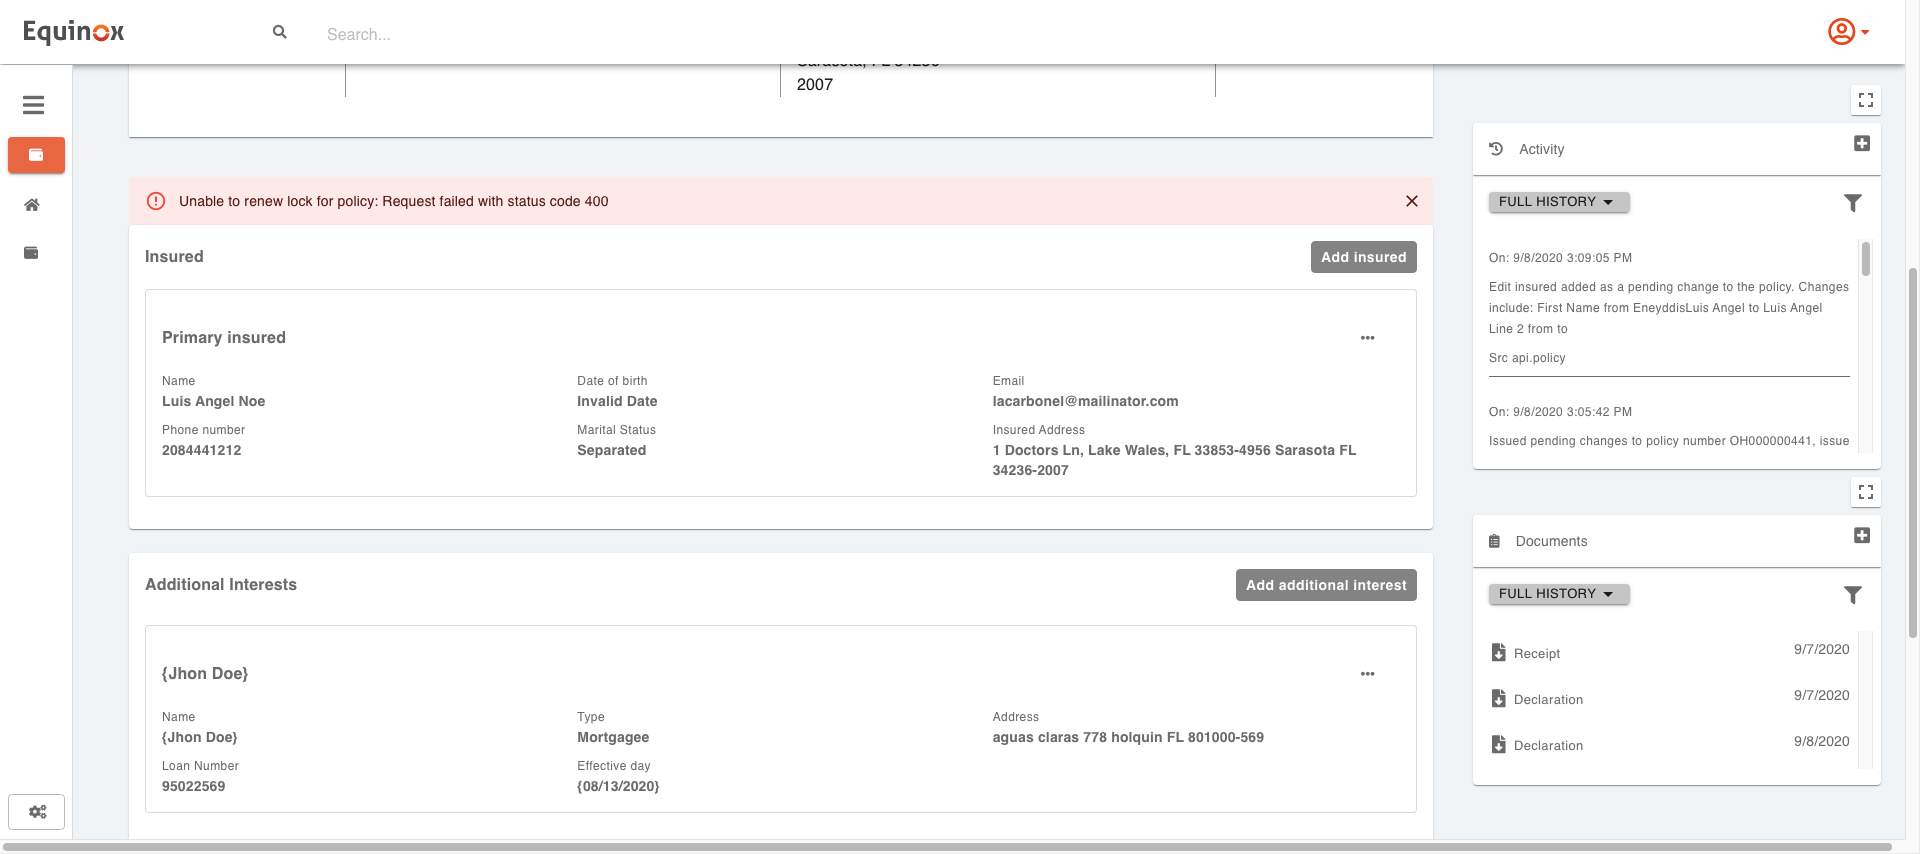
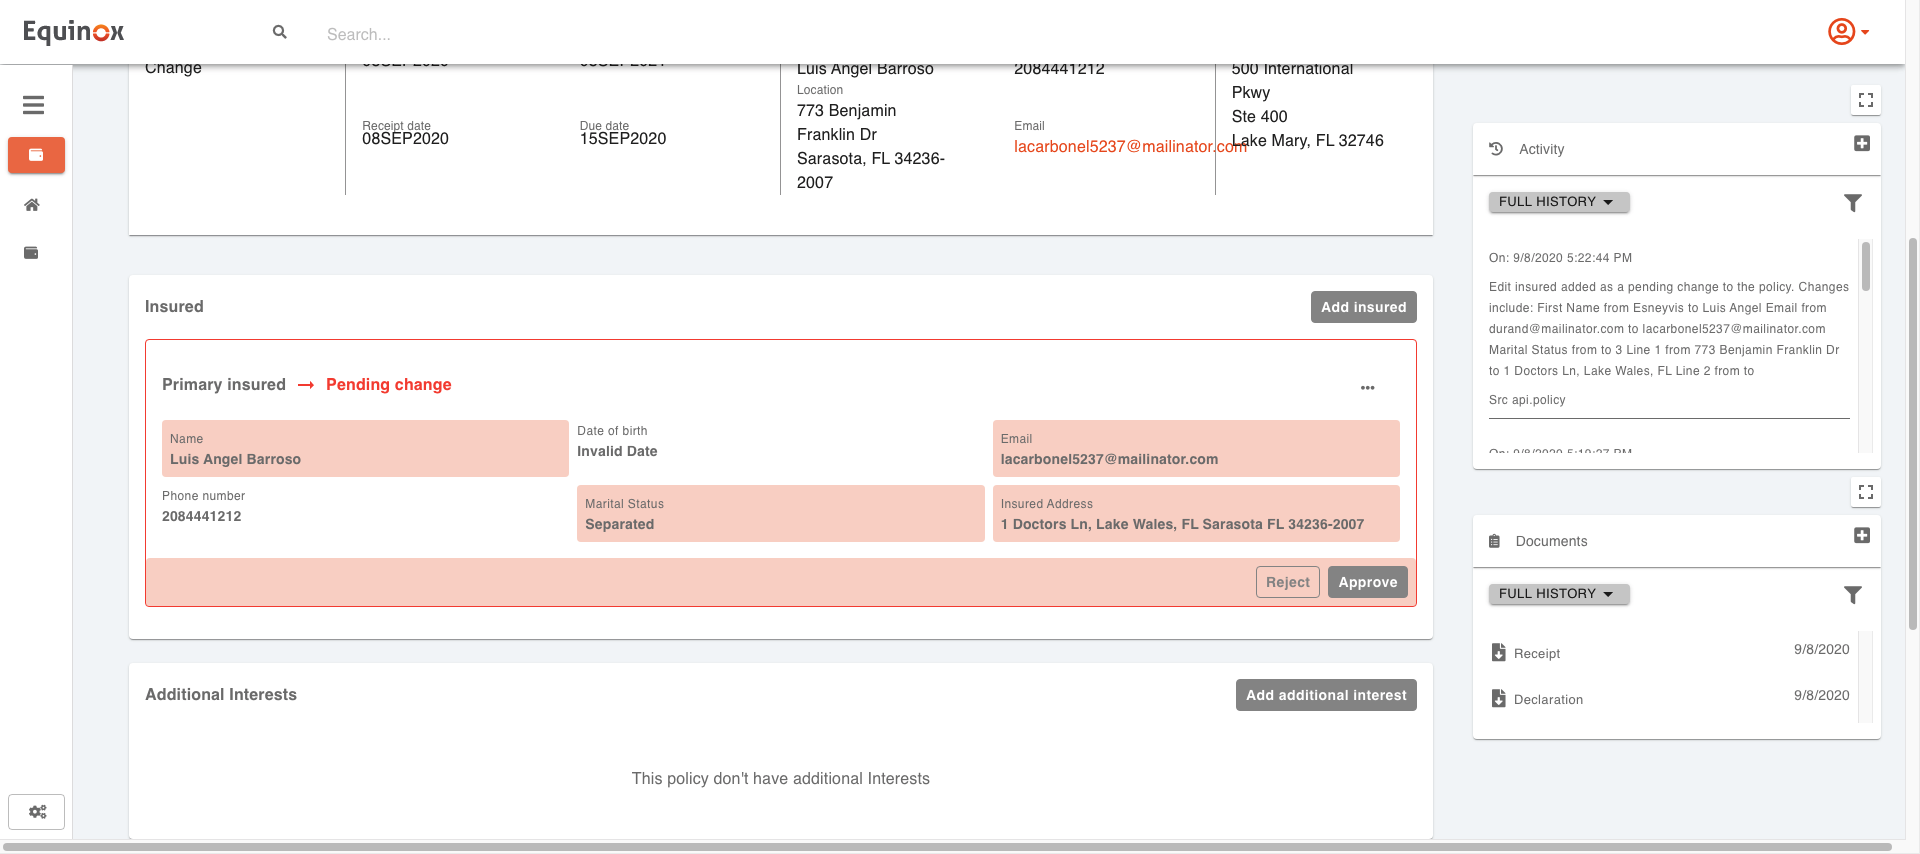
Add insurance 2

diff --git a/src/test/java/ClassBase/DetailsPolicyPage.java b/src/test/java/ClassBase/DetailsPolicyPage.java
@@ -55,7 +55,7 @@ public class DetailsPolicyPage {
     @FindBy(id= "firstName")
     WebElement firstName;
 
-    @FindBy(id= "lastName")
+    @FindBy(css= "input[id='lastName']")
     WebElement lastName;
 
     @FindBy(id= "phoneNumber")
@@ -99,6 +99,9 @@ public class DetailsPolicyPage {
 
     @FindBy(css= "div[class='MuiGrid-root MuiGrid-item'] button")
     List<WebElement> approvedAndReject;
+
+    @FindBy(xpath= "//*[contains(text(),'Add insured')]")
+    WebElement addInsurance;
 
 
 
@@ -183,6 +186,12 @@ public class DetailsPolicyPage {
         wait.until(ExpectedConditions.elementToBeClickable(editSelect.get(3))).click();
     }
 
+    public void addInsuranceInfo() throws InterruptedException {
+        Thread.sleep(5000);
+        Actions act= new Actions(driver);
+        act.moveToElement(addInsurance).doubleClick(addInsurance).build().perform();
+    }
+
     public void buttonSaveInsuranceInfo() throws InterruptedException {
         Thread.sleep(5000);
         WebDriverWait wait= new WebDriverWait(driver, Duration.ofSeconds(80));
@@ -246,7 +255,6 @@ public class DetailsPolicyPage {
         Thread.sleep(5000);
        if(insuranceInfo.size() > 1)
        {
-           Assert.assertEquals(insuranceInfo.get(6).getText(),mail);
            Assert.assertEquals(insuranceInfo.get(10).getText(),status);
            Assert.assertEquals(insuranceInfo.get(12).getText(),addrs);
        }
@@ -290,32 +298,49 @@ public class DetailsPolicyPage {
 
     public void enterInsuranceData(String name, String lastnam, String phoneN, String date, String city, String postal, String state, String county,
                                    String emai, String marital, String addres) throws InterruptedException {
-        Thread.sleep(3000);
+        Thread.sleep(5000);
+        Actions act= new Actions(driver);
+        act.click(firstName).build().perform();
         firstName.sendKeys(name);
         Thread.sleep(2000);
+
+        act.click(lastName).build().perform();
         lastName.sendKeys(lastnam);
         Thread.sleep(2000);
+
+        act.click(phoneNumber).build().perform();
         phoneNumber.sendKeys(phoneN);
         Thread.sleep(2000);
+
+        act.click(birthday).build().perform();
         birthday.sendKeys(date);
         Thread.sleep(2000);
+
+        act.click(email).build().perform();
+        email.sendKeys(emai);
+        Thread.sleep(2000);
+
+        dropdownOptions.get(2).click();
+        selectMaritalStatus(marital);
+        Thread.sleep(2000);
+
+        addressOne.sendKeys(addres);
+        Thread.sleep(2000);
+
         cityEnter.sendKeys(city);
         Thread.sleep(2000);
+
         postalCode.sendKeys(postal);
         Thread.sleep(2000);
+
         dropdownOptions.get(3).click();
         selectMaritalStatus(state);
 
-        Thread.sleep(2000);
+      /*  Thread.sleep(2000);
         dropdownOptions.get(4).click();
-        selectMaritalStatus(county);
+        selectMaritalStatus(county);*/
 
-        Thread.sleep(2000);
-        email.sendKeys(emai);
-        Thread.sleep(2000);
-        selectMaritalStatus(marital);
-        Thread.sleep(2000);
-        addressOne.sendKeys(addres);
+
 
     }
 
@@ -337,6 +362,19 @@ public class DetailsPolicyPage {
         Thread.sleep(5000);
         Assert.assertEquals(pendingChange.get(3).getText(), status);
     }
+
+    public void policyFirstOption() throws InterruptedException {
+        Thread.sleep(5000);
+        List<WebElement> searchListView= driver.findElements(By.xpath("//*[contains(text(),'View')]"));
+                if (viewDetailsList.size() >= 1) {
+                    WebDriverWait wait = new WebDriverWait(driver, Duration.ofSeconds(80));
+                    wait.until(ExpectedConditions.elementToBeClickable(viewDetailsList.get(1))).click();
+                } else if (searchListView.size() >= 1) {
+                    WebDriverWait wait = new WebDriverWait(driver, Duration.ofSeconds(80));
+                    wait.until(ExpectedConditions.elementToBeClickable(searchListView.get(1))).click();
+                }
+    }
+
 
 
 }

diff --git a/src/test/java/StepsDefinitions/DetailsPolicy.java b/src/test/java/StepsDefinitions/DetailsPolicy.java
@@ -146,7 +146,7 @@ public class DetailsPolicy extends TestBase {
     @Then("verify the information error message")
     public void verifyTheInformationErrorMessage() {
        Log.info("Verify the error message");
-
+        validateWindows();
     }
 
     @And("verify Pending Change status is displayed")
@@ -160,7 +160,7 @@ public class DetailsPolicy extends TestBase {
     @And("select Add insurance button")
     public void selectAddInsuranceButton() throws InterruptedException {
         Log.info("Click on Add insurance information");
-        deta.buttonSaveInsuranceInfo();
+        deta.addInsuranceInfo();
     }
 
     @Then("verify the secondary Insurance is displayed")
@@ -173,7 +173,7 @@ public class DetailsPolicy extends TestBase {
     }
 
     @Then("enter the information desired {string} {string} {string} {string} {string} {string} {string}{string}{string} {string} {string}")
-    public void enterTheInformationDesired(String firstName, String lastName, String phoneNumber, String dateBirth, String city, String state, String county, String postal, String email, String maritalStatus, String address) throws IOException, InterruptedException {
+    public void enterTheInformationDesired(String firstName, String lastName, String phoneNumber, String dateBirth, String city, String postal, String state, String county, String email, String maritalStatus, String address) throws IOException, InterruptedException {
         Log.info("Enter the data desired Add insurance");
         p= PropertyHelper.loadData();
         Random randomGenerator= new Random(System.currentTimeMillis());
@@ -183,10 +183,10 @@ public class DetailsPolicy extends TestBase {
         String numberP= p.getProperty(phoneNumber)+randomInt;
         String birth= p.getProperty(dateBirth);
         String cit= p.getProperty(city);
+        String codePostal= p.getProperty(postal);
         String stateS= p.getProperty(state);
         String coun= p.getProperty(county);
-        String codePostal= p.getProperty(postal);
-        String randomEmail=p.getProperty(email)+randomInt+"@mailinator.com";
+        String randomEmail=p.getProperty(email);
         String maritalStat= p.getProperty(maritalStatus);
         String sddres= p.getProperty(address);
 
@@ -211,5 +211,11 @@ public class DetailsPolicy extends TestBase {
     @And("verify Approved status is displayed")
     public void verifyApprovedStatusIsDisplayed() {
 
+    }
+
+    @And("select first policy displayed")
+    public void selectFirstPolicyDisplayed() throws InterruptedException {
+        Log.info("Select first policy displayed");
+        deta.policyFirstOption();
     }
 }

diff --git a/src/test/java/TestRunner/Runner.java b/src/test/java/TestRunner/Runner.java
@@ -12,7 +12,7 @@ import org.testng.annotations.Test;
 
 @CucumberOptions(features = "src/test/resources/features", glue = { "StepsDefinitions" }
         , plugin = {"html:target/site/cucumber-pretty","json:target/cucumber.json"}
-        , tags = {"@EditInsuranceInfoIncorrectEmail"}) // or
+        , tags = {"@AddSecondaryInsurance"}) // or
 
 
 //"com.aventstack.extentreports.cucumber.adapter.ExtentCucumberAdapter:"
